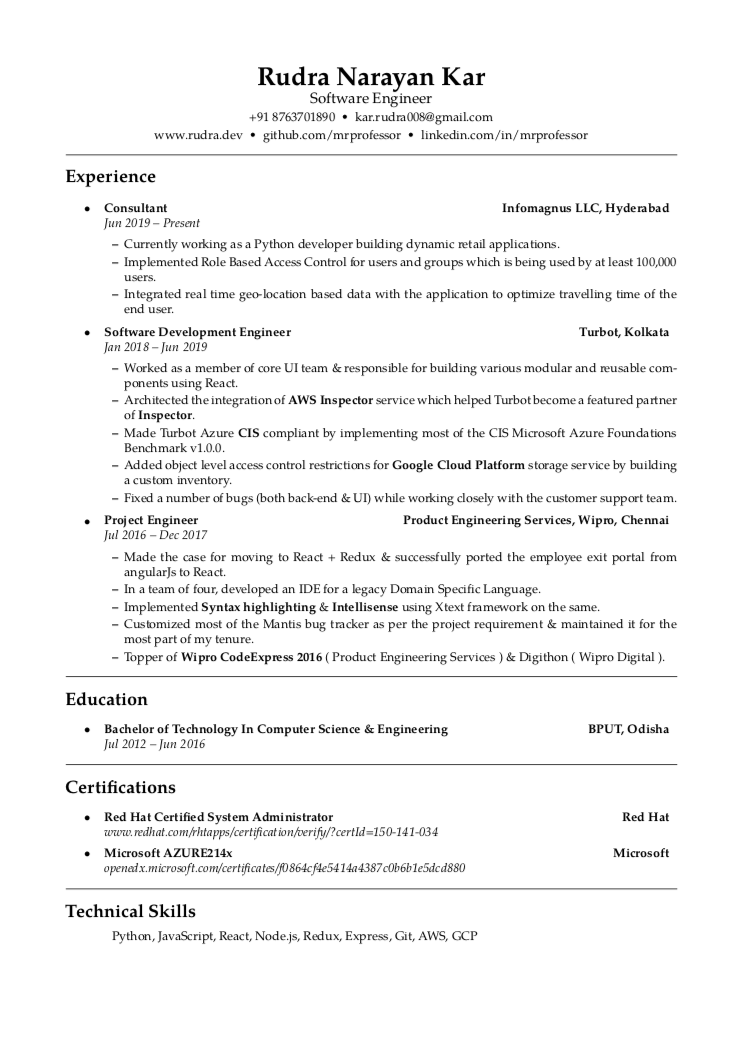
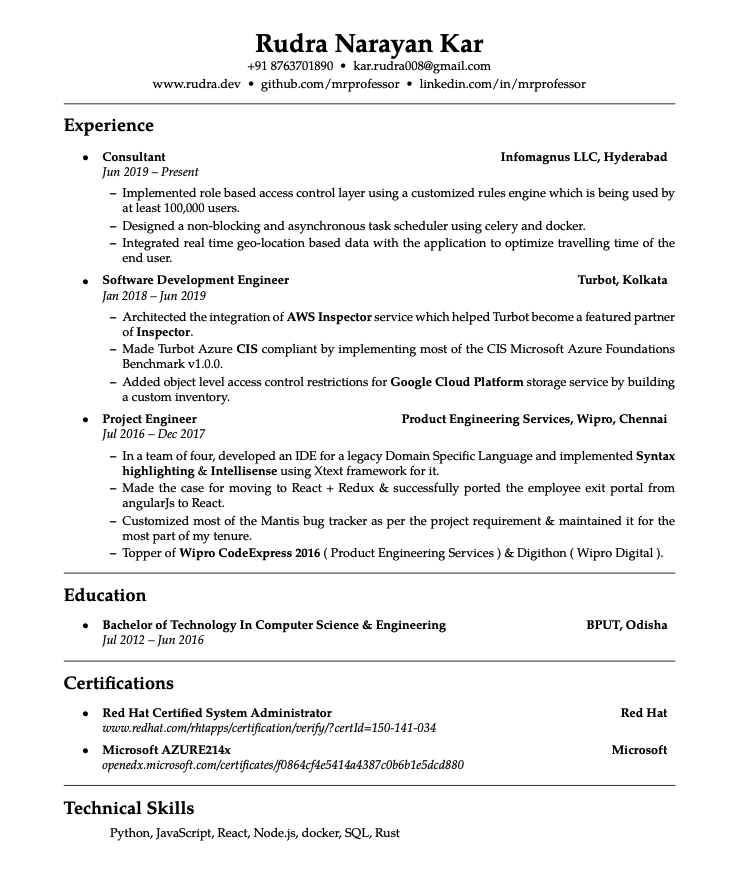
Removed non-essential stuff

Changed region(s): [[0.0935, 0.0302, 0.935, 0.9373]]

diff --git a/main.tex b/main.tex
@@ -1,5 +1,3 @@
-% resume.tex
-% vim:set ft=tex spell:
 
 \documentclass[10pt,a4paper,hidelinks]{article}
 \usepackage[a4paper,margin=0.75in]{geometry}
@@ -70,7 +68,8 @@
 \setstretch{1.2}{
 {\huge \textbf{Rudra Narayan Kar}}
 
-{\large{Software Engineer}} \\
+% Seems unnecessary now 
+% {\large{Software Engineer}} \\
 
 +91 8763701890\ \ \textbullet
 \ \ kar.rudra008@gmail.com 
@@ -107,9 +106,10 @@
 		{\emph{}}
 	\begin{itemize*}
 	    \setlength\itemsep{2pt}
-		\item Currently working as a Python developer building dynamic retail applications.
-		\item Implemented Role Based Access Control for users and groups which is being used by at least 100,000 users.
+        \item Implemented role based access control layer using a customized rules engine which is being used by at least 100,000 users.
+		\item Designed a non-blocking and asynchronous task scheduler using celery and docker.
 		\item Integrated real time geo-location based data with the application to optimize travelling time of the end user.
+		
 	\end{itemize*}
 
 	\item
@@ -122,27 +122,12 @@
 		{\emph{}}
 	\begin{itemize*}
 	    \setlength\itemsep{2pt}
-		\item Worked as a member of core UI team \& responsible for building various modular and reusable components using React.
+% 		\item Worked as a member of core UI team \& responsible for building various modular and reusable components using React.
         \item Architected the integration of \textbf{AWS Inspector} service which helped Turbot become a featured partner of \href{https://aws.amazon.com/inspector/partners/}{\textbf{Inspector}}.
         \item Made Turbot Azure \textbf{CIS} compliant by implementing most of the CIS Microsoft Azure Foundations Benchmark v1.0.0.
         \item Added object level access control restrictions for \textbf{Google Cloud Platform} storage service by building a custom inventory.
-        \item Fixed a number of bugs (both back-end \& UI) while working closely with the customer support team.
+        % \item Fixed a number of bugs (both back-end \& UI) while working closely with the customer support team.
 	\end{itemize*}
-
-% 	\item
-% 	\headerrow
-% 		{\textbf{UI Developer}}
-% 		{\href{https://www.topcoder.com/}{\textbf{Topgear, Wipro, Chennai}}}
-% 	\\
-% 	\headerrow
-% 	    {\emph{Nov 2016 -- Dec 2017}}
-% 		{\emph{}}
-% 	\begin{itemize*}
-% 	    \setlength\itemsep{2pt}
-% 		\item Made the case for moving to React + Redux \& successfully ported the employee exit portal from angularJs to React.
-%         \item Developed the aircraft data management portal of a client using React.
-%         \item Wrote a huge amount of wikis for Python \& UI/UX development community.
-% 	\end{itemize*}
 
 	\item
 	\headerrow
@@ -154,29 +139,32 @@
 		{\emph{}}
 	\begin{itemize*}
 	    \setlength\itemsep{2pt}
-	    \item Made the case for moving to React + Redux \& successfully ported the employee exit portal from angularJs to React.
-		\item In a team of four, developed an IDE for a legacy Domain Specific Language.
-        \item Implemented \textbf{Syntax highlighting} \& \textbf{Intellisense} using Xtext framework on the same.
+		\item In a team of four, developed an IDE for a legacy Domain Specific Language and implemented \textbf{Syntax highlighting} \& \textbf{Intellisense} using Xtext framework for it.
+		\item Made the case for moving to React + Redux \& successfully ported the employee exit portal from angularJs to React.
         \item Customized most of the Mantis bug tracker as per the project requirement \& maintained it for the most part of my tenure.
         \item Topper of \textbf{Wipro CodeExpress 2016} ( Product Engineering Services ) \& Digithon ( Wipro Digital ).
 	\end{itemize*}
 
-%     \item
-% 	\headerrow
-% 		{\textbf{Freelance Web Developer}}
-% 		{\textbf{Bhubaneswar, Odisha}}
-% 	\\
-% 	\headerrow
-% 		{\emph{Dec 2013 -- May 2016}}
-% 		{\emph{}}
-% 	\begin{itemize*}
-% 	   % \setlength\itemsep{2pt}
-%         \item Designed, developed \& maintained the website of an event management company for three years.
-%         \item Developed \& deployed an WordPress site for a local business.
-%         % \item Designed the college cult-fest website for two years.
-% 	\end{itemize*}
-	
 \end{itemize}
+
+
+% -------------------- Projects ---------------------------
+% \hrule
+% \vspace{-0.4em}
+% \section*{Projects}
+
+% \begin{itemize}
+% 	\parskip=0.1em
+% 	\item 
+% 	\headerrow
+% 		{\textbf{Solitude}}
+% 		{{}}
+% 	\headerrow
+% 		{\emph{A git based note taking application.}}
+
+% \end{itemize}
+% -------------------- -------- ---------------------------
+
 
 
 \hrule
@@ -237,11 +225,7 @@
 \begin{indentsection}{\parindent}
 \hyphenpenalty=1000
 \begin{description*}
-% 	\item[Strong:]
-% 	JavaScript, React, Express, Git, AWS
-% 	\item[Knowledgeable:]
-% 	Node.js, Graphql, Redux, Python, GCP, Azure, MongoDB
-    Python, JavaScript, React, Node.js, Redux, Express, Git, AWS, GCP 
+    Python, JavaScript, React, Node.js, docker, SQL, Rust
 \end{description*}
 \end{indentsection}
 
